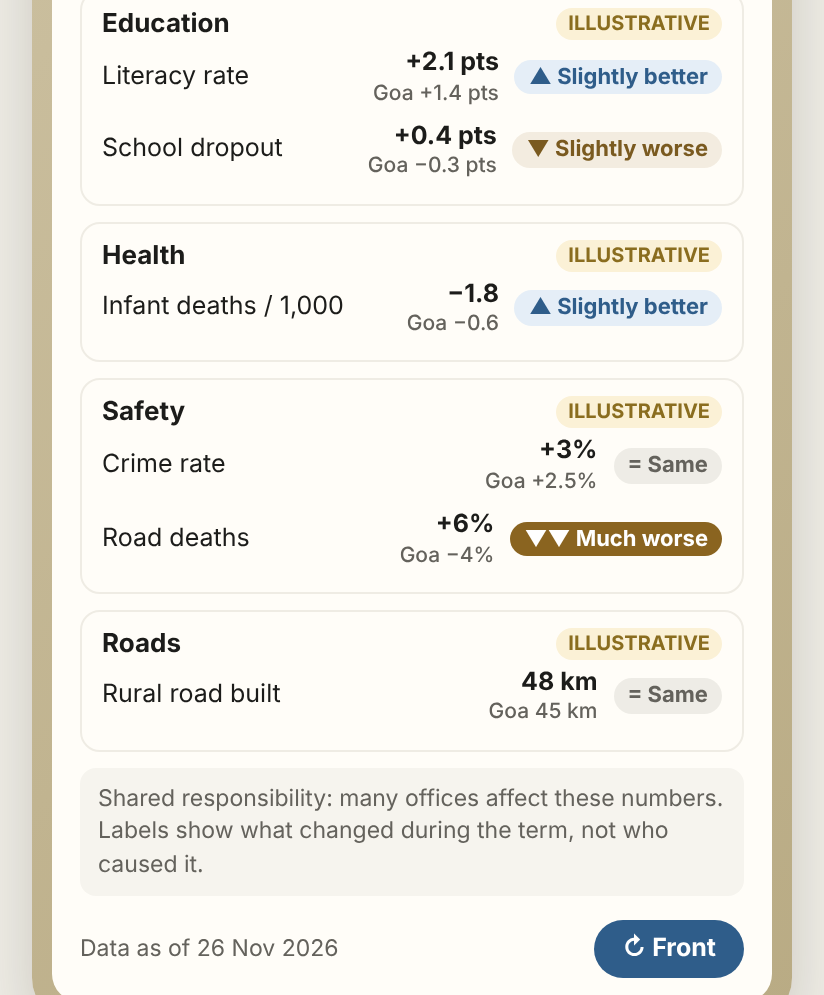
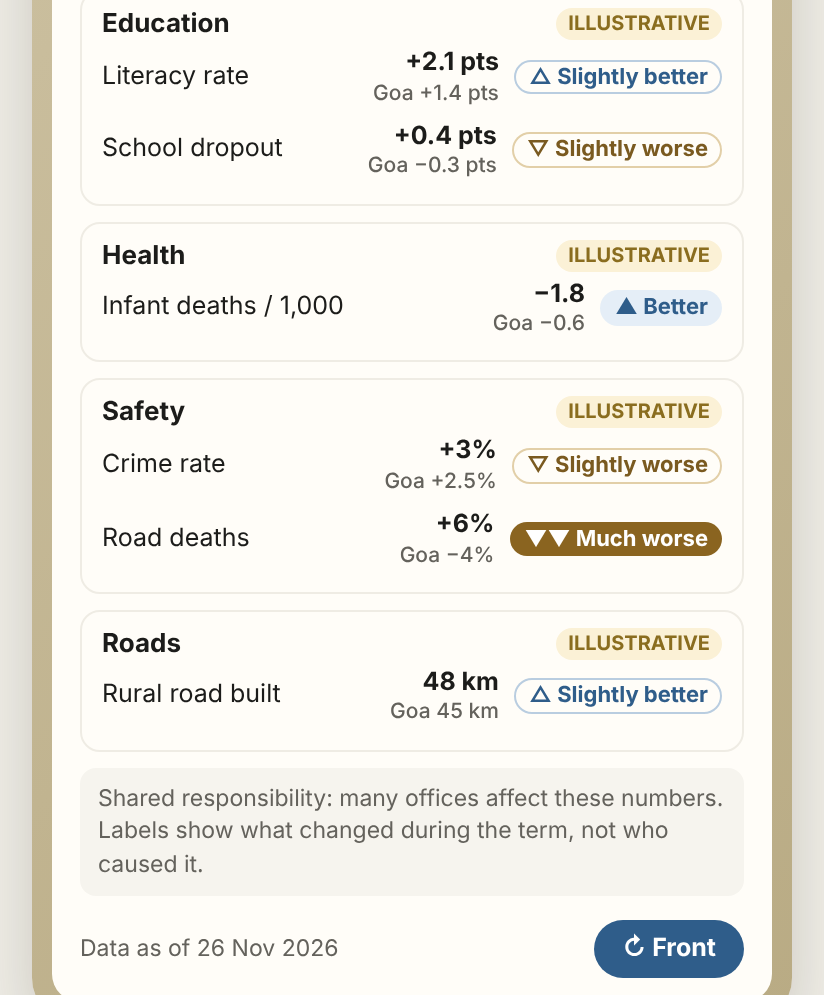
Neta Cards: 7-level sector labels, Same only at zero gap
Claude-Session: https://claude.ai/code/session_01KSnZnz1Q3eunecs4m9XQdi

diff --git a/neta/index.html b/neta/index.html
@@ -72,11 +72,11 @@ header{width:100%;max-width:380px;display:flex;justify-content:space-between;ali
 .ind{display:grid;grid-template-columns:1fr auto auto;line-height:1.25;gap:8px;font-size:12.5px;padding:4px 0;align-items:center}
 .ind .d{font-weight:700;text-align:right}
 .lab{font-size:11px;font-weight:700;border-radius:12px;padding:2px 7px;white-space:nowrap}
-.lab.mbetter,.lab.sbetter{background:#e5eef7;color:#2f5d8a}
+.lab.better{background:#e5eef7;color:#2f5d8a}
 .lab.same{background:#eeece6;color:#64625c}
-.lab.mworse,.lab.sworse{background:#f3ece0;color:#7a5a20}
+.lab.worse{background:#f3ece0;color:#7a5a20}
 .st{display:block;font-size:10.5px;font-weight:500;color:var(--quiet)}
-.lab.mbetter{background:#2f5d8a;color:#fff}.lab.mworse{background:#8a6420;color:#fff}
+.lab.mbetter{background:#2f5d8a;color:#fff}.lab.mworse{background:#8a6420;color:#fff}.lab.sbetter{background:none;color:#2f5d8a;box-shadow:inset 0 0 0 1px #b9cde0}.lab.sworse{background:none;color:#7a5a20;box-shadow:inset 0 0 0 1px #e2cfa8}
 .illus{font-size:10px;font-weight:700;color:#8a6d1f;background:#fbf1d6;border-radius:10px;padding:2px 6px}
 .kv{display:flex;justify-content:space-between;gap:14px;font-size:13px;padding:5px 0;border-top:1px solid #f0ede5}
 .kv:first-of-type{border-top:0}
@@ -198,7 +198,7 @@ function render(){
   $("fund").innerHTML=D.fund.map(k=>`<div class="kv"><span>${esc(k[0])}</span><b>${esc(k[1])}</b></div>`).join("")+(D.fundNote?`<div class="note">${D.fundNote}</div>`:"");
   $("min").innerHTML=D.minister.map(k=>`<div class="kv"><span>${esc(k[0])}</span><b>${esc(k[1])}</b></div>`).join("")+(D.ministerNote?`<div class="note">${D.ministerNote}</div>`:"");
   $("sectors").innerHTML=D.sectors.map(s=>`<div class="sector"><h4>${esc(s.name)} ${s.illustrative?'<span class="illus">ILLUSTRATIVE</span>':''}</h4>`+
-     s.rows.map(r=>`<div class="ind"><span>${esc(r[0])}</span><span class="d">${esc(r[1])}<span class="st">Goa ${esc(r[2])}</span></span><span class="lab ${r[3]}">${{mbetter:"▲▲ Much better",sbetter:"▲ Slightly better",same:"= Same",sworse:"▼ Slightly worse",mworse:"▼▼ Much worse"}[r[3]]}</span></div>`).join("")+`</div>`).join("");
+     s.rows.map(r=>`<div class="ind"><span>${esc(r[0])}</span><span class="d">${esc(r[1])}<span class="st">Goa ${esc(r[2])}</span></span><span class="lab ${r[3]}">${{mbetter:"▲▲ Much better",better:"▲ Better",sbetter:"△ Slightly better",same:"= Same",sworse:"▽ Slightly worse",worse:"▼ Worse",mworse:"▼▼ Much worse"}[r[3]]}</span></div>`).join("")+`</div>`).join("");
   $("asof").textContent=D.asof;
   $("samplenote").innerHTML=D.sampleNote;
   applyLang();

diff --git a/neta/data.js b/neta/data.js
@@ -51,9 +51,9 @@ window.NETA = {
   // rows: [indicator, change here, change in Goa, label]. Label = gap between the two, by the published thresholds.
   sectors: [
     { name: "Education", illustrative: true, rows: [["Literacy rate", "+2.1 pts", "+1.4 pts", "sbetter"], ["School dropout", "+0.4 pts", "−0.3 pts", "sworse"]] },
-    { name: "Health", illustrative: true, rows: [["Infant deaths / 1,000", "−1.8", "−0.6", "sbetter"]] },
-    { name: "Safety", illustrative: true, rows: [["Crime rate", "+3%", "+2.5%", "same"], ["Road deaths", "+6%", "−4%", "mworse"]] },
-    { name: "Roads", illustrative: true, rows: [["Rural road built", "48 km", "45 km", "same"]] }
+    { name: "Health", illustrative: true, rows: [["Infant deaths / 1,000", "−1.8", "−0.6", "better"]] },
+    { name: "Safety", illustrative: true, rows: [["Crime rate", "+3%", "+2.5%", "sworse"], ["Road deaths", "+6%", "−4%", "mworse"]] },
+    { name: "Roads", illustrative: true, rows: [["Rural road built", "48 km", "45 km", "sbetter"]] }
   ],
   sampleNote: "<b>Sample card.</b> Front side and the Lok Sabha / minister facts are real, with sources on tap. The fund numbers and ministry numbers are still pending. <b>The sector numbers are made up</b>, only to show the design; they're marked ILLUSTRATIVE. Photo: Biswarup Ganguly, CC BY 3.0, via Wikimedia Commons (2014)."
 };
